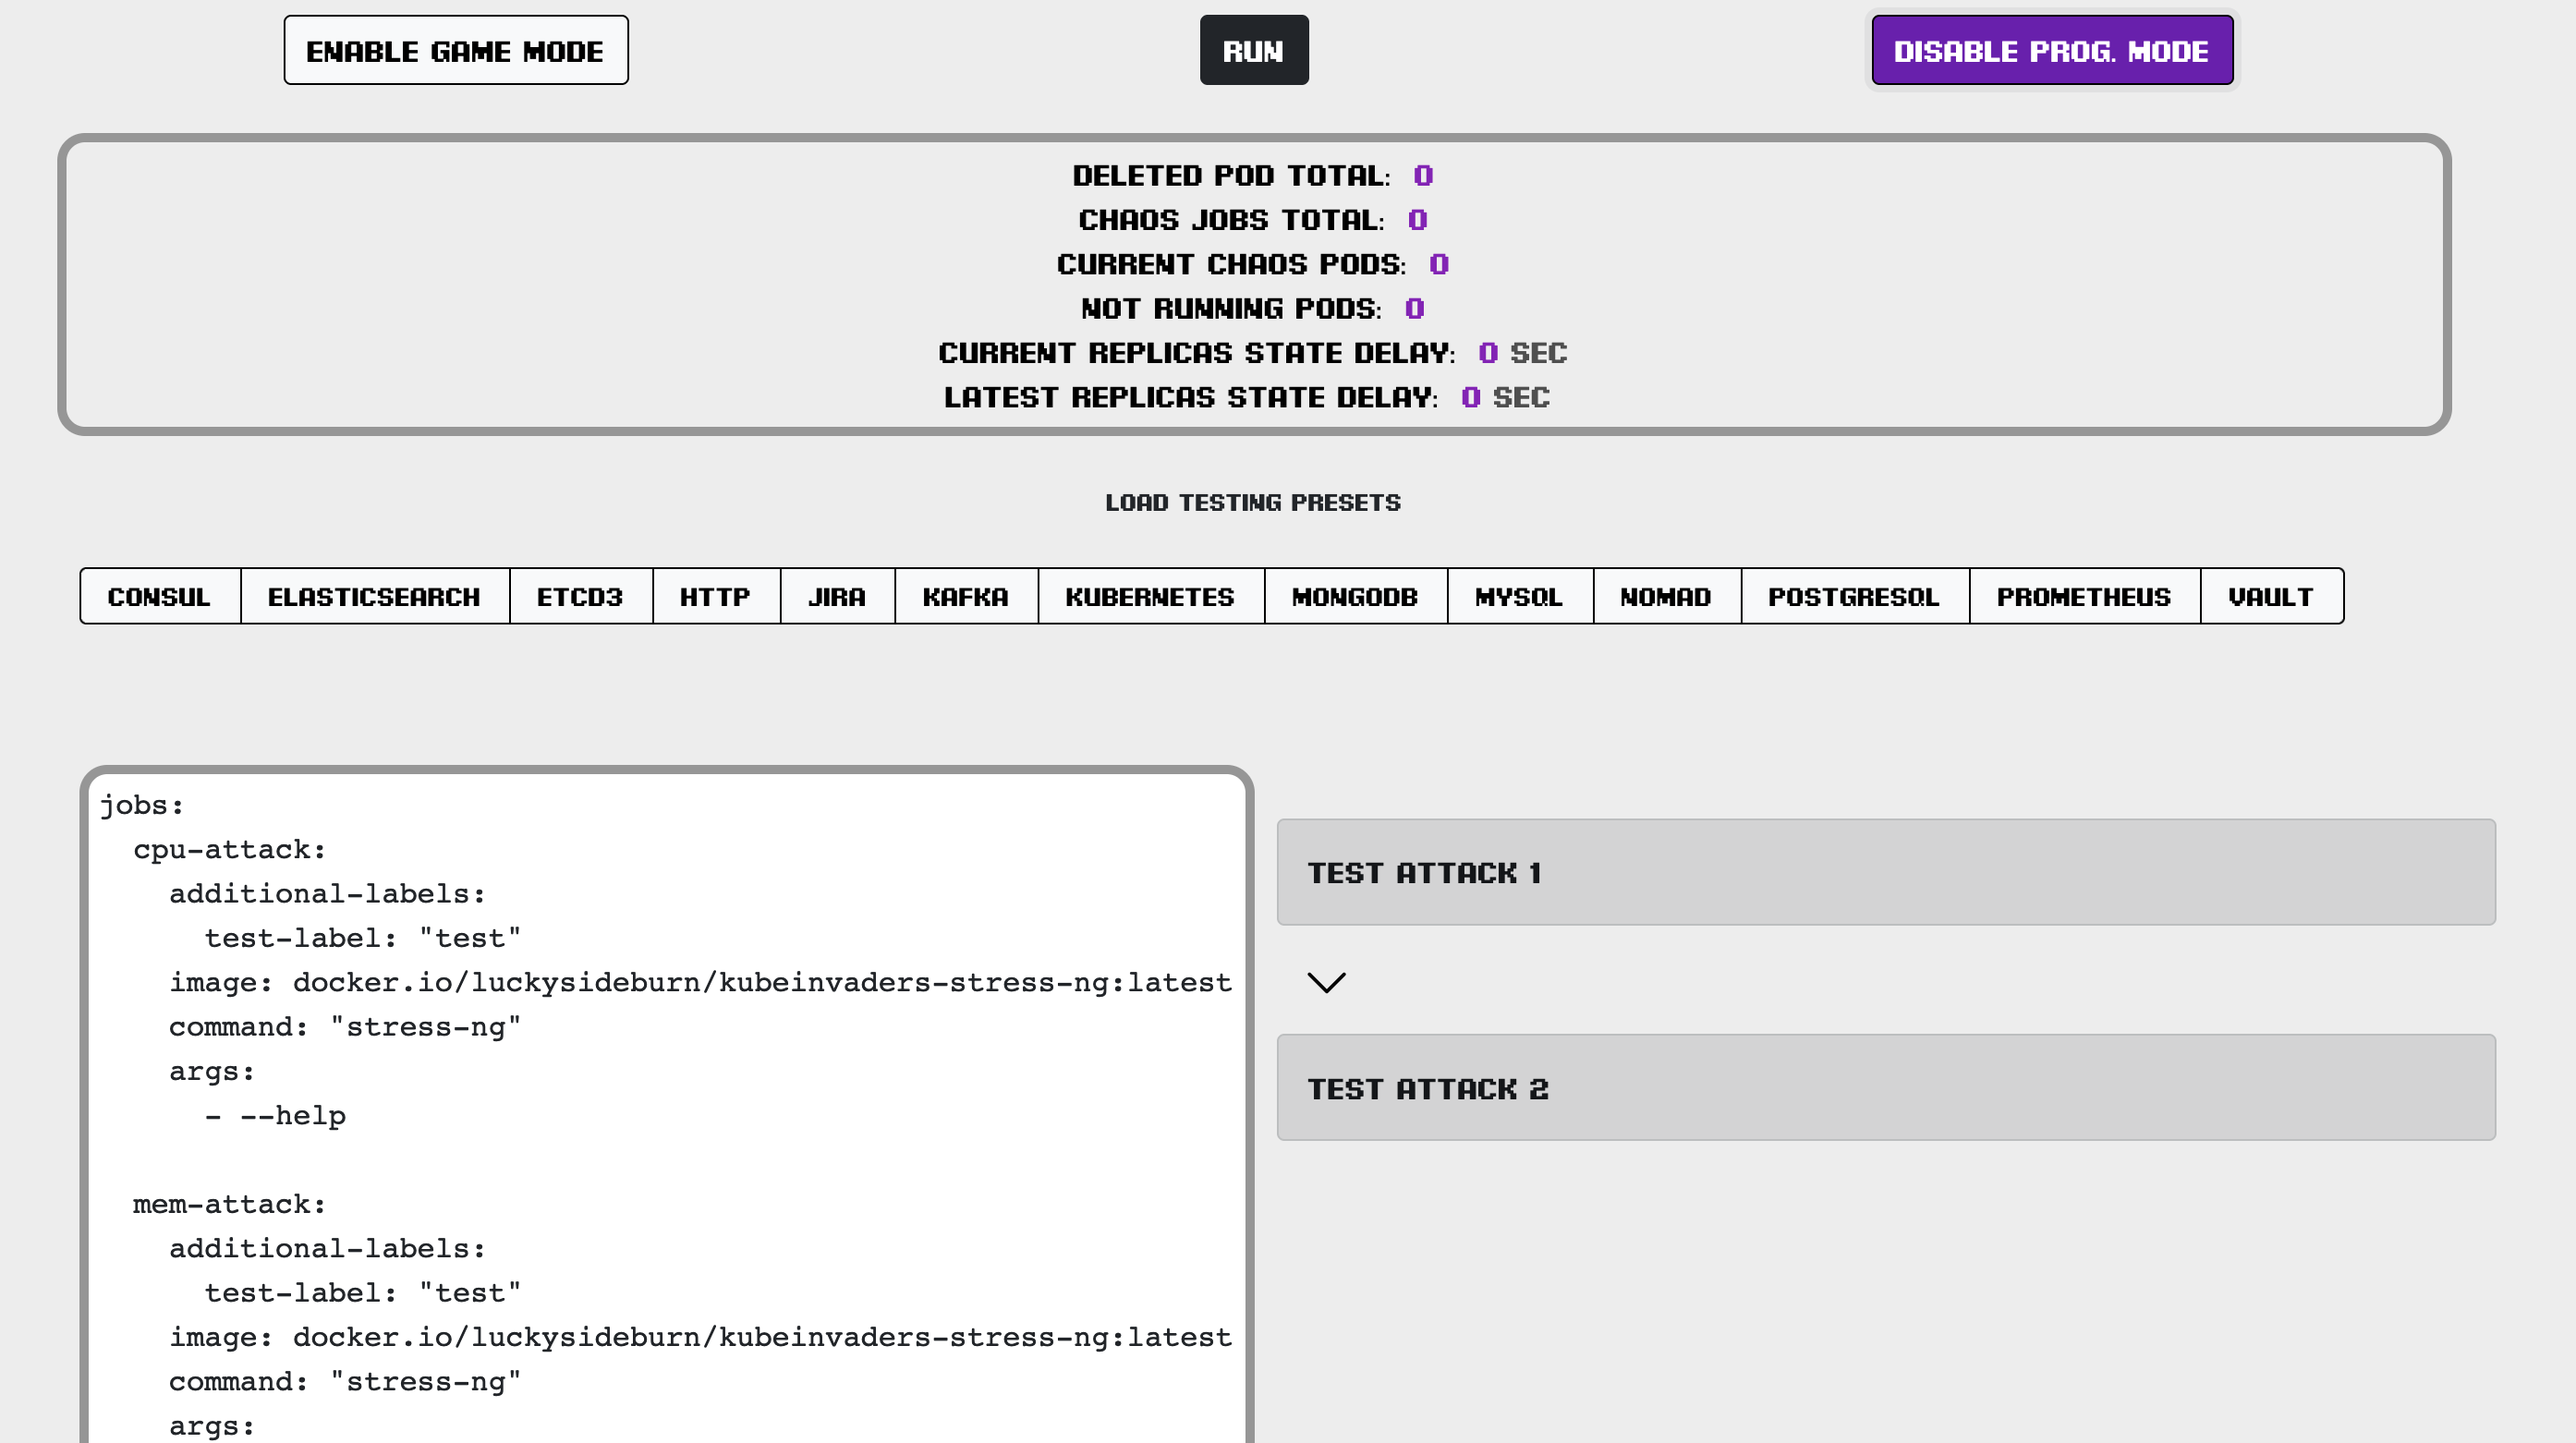
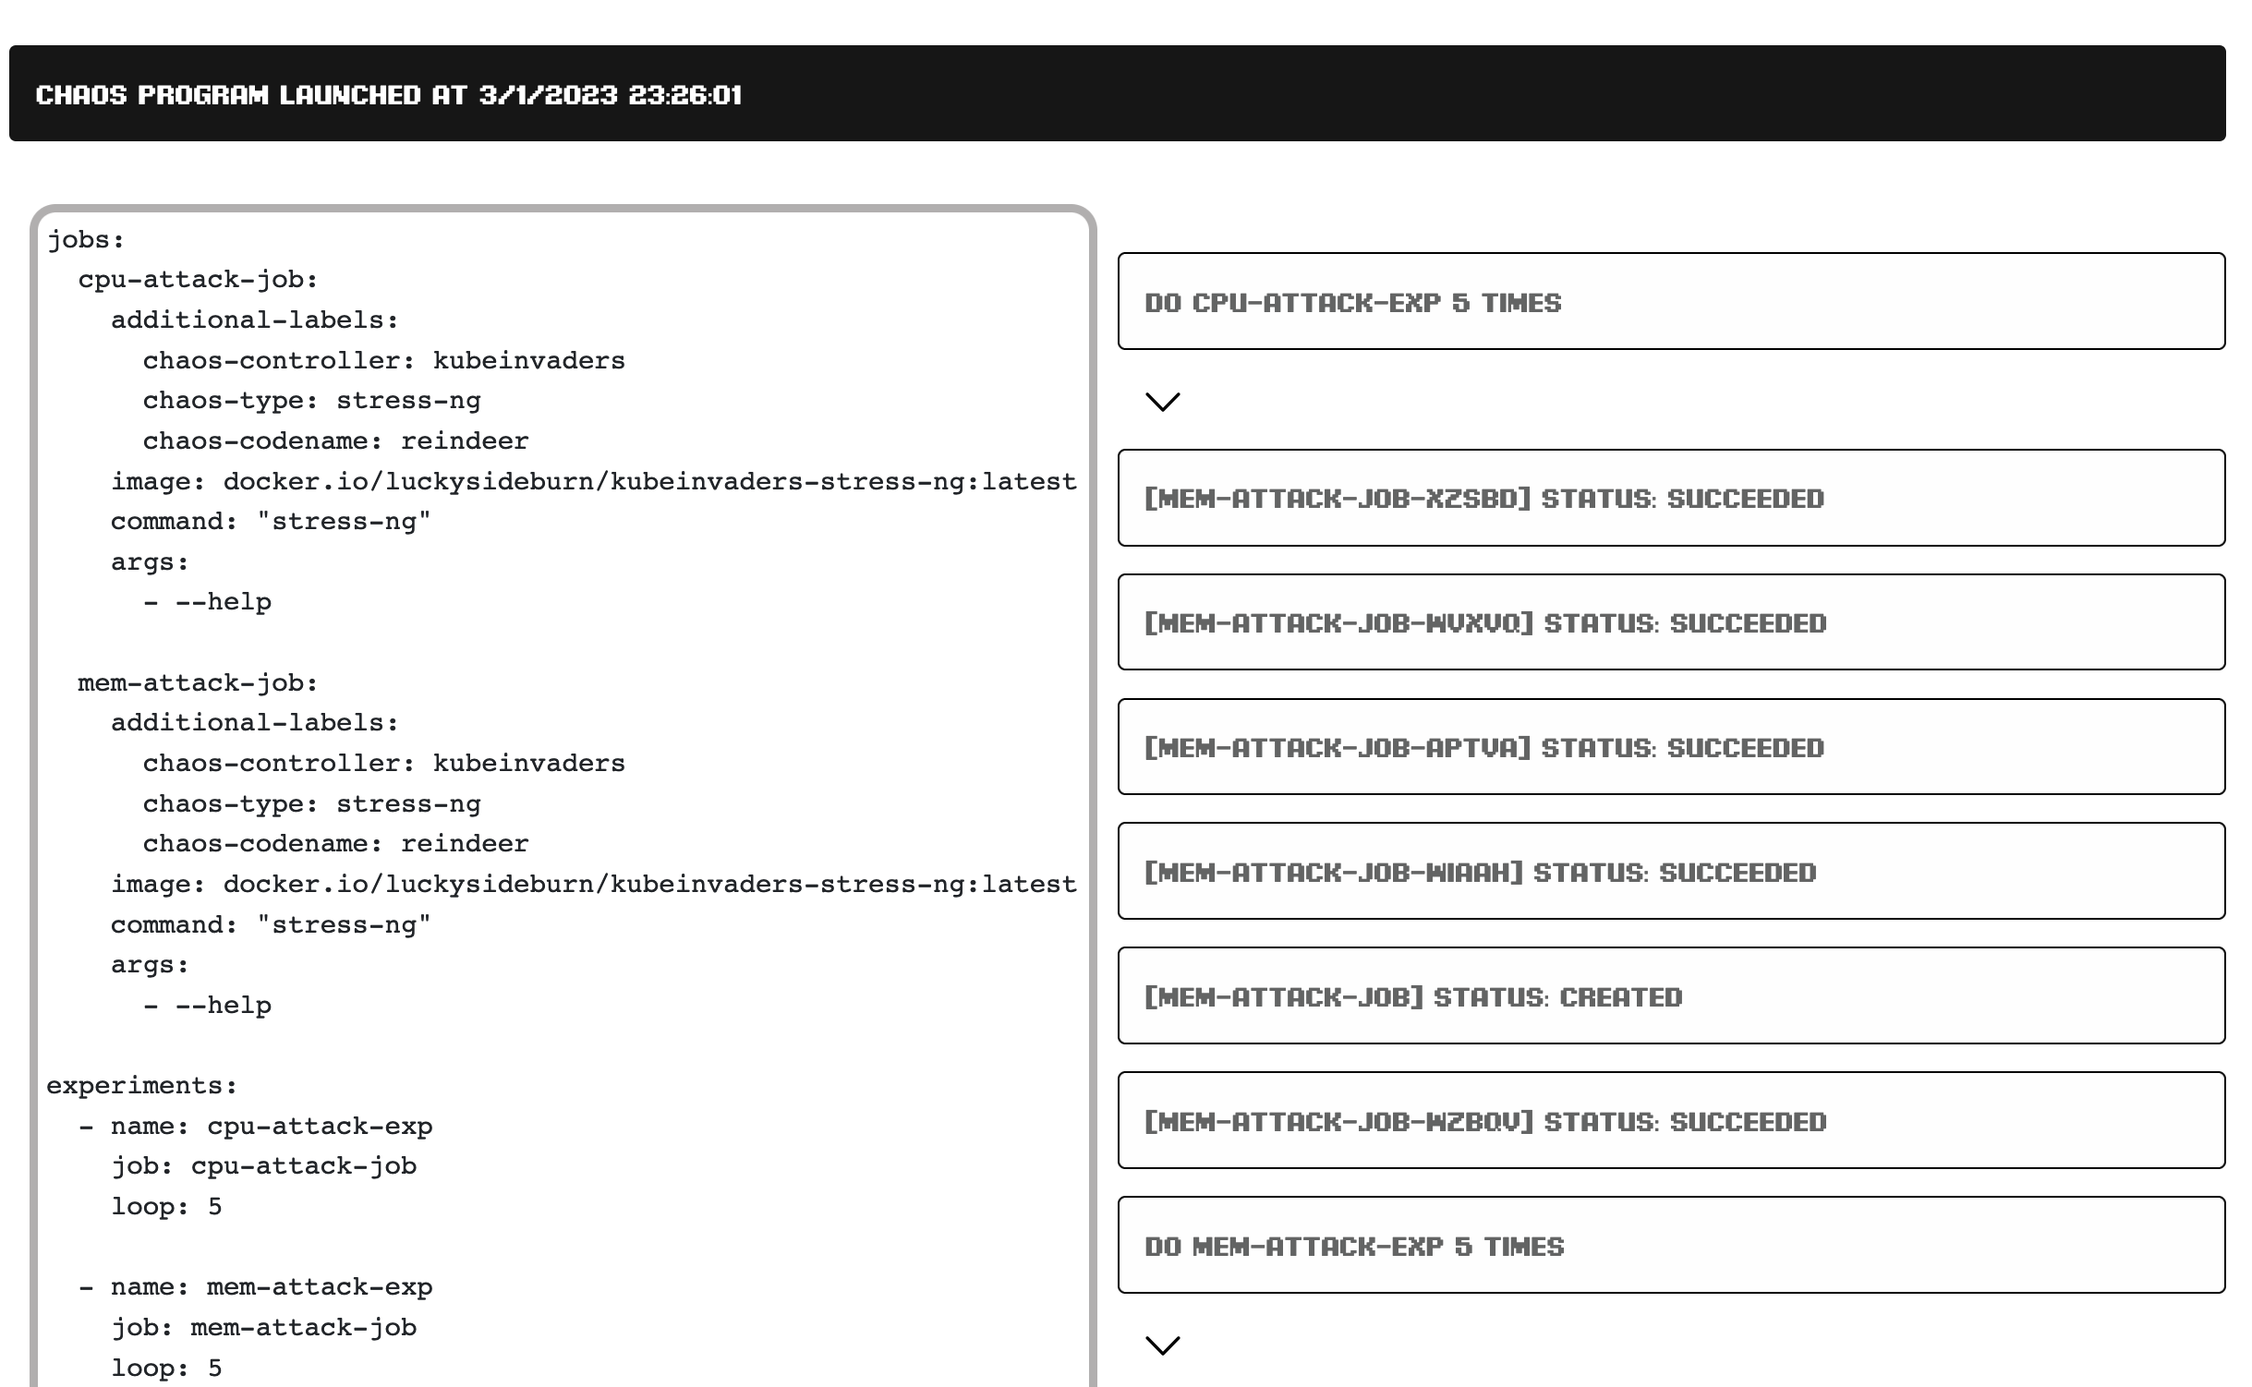
fix

Changed region(s): [[0.0, 0.0, 0.9975, 1.0]]

diff --git a/html5/index.html b/html5/index.html
@@ -10,7 +10,7 @@
 
       .custom-btn-group {
         margin-top: 2%;
-        border: 5px solid #969696;
+        border: 5px solid #b2afaf;
         border-radius: 5px;
         -moz-border-radius: 15px;
         -webkit-border-radius: 15px;
@@ -20,7 +20,7 @@
 
       .logtail-group {
         margin-top: 0%;
-        border: 5px solid #969696;
+        border: 5px solid #b2afaf;
         border-radius: 5px;
         -moz-border-radius: 15px;
         -webkit-border-radius: 15px;
@@ -29,7 +29,7 @@
       }
 
       .chaos-prog-area {
-        border: 5px solid #969696;
+        border: 5px solid #b2afaf;
         border-radius: 5px;
         -moz-border-radius: 15px;
         -webkit-border-radius: 15px;
@@ -42,7 +42,7 @@
       }
 
       .btn-light:hover, .btn-light:focus, .btn-light:active, .btn-light.active, .open .dropdown-toggle.btn-default {
-        background-color: #7304b3;
+        background-color: #06812f;
         color:#FFF;
         border-color: #000000;
       }
@@ -58,21 +58,21 @@
       }
 
       body {
-        background-color: #ededed;
+        background-color: #ffffff;
       }
 
       .modal-content {
-        background-color: #ededed;
+        background-color: #ffffff;
 
       }
 
       .modal-content {
-        background-color: #ededed;
+        background-color: #ffffff;
 
       }
       
       .modal-dialog {
-        background-color: #ededed;
+        background-color: #ffffff;
       }
 
       div {
@@ -293,14 +293,14 @@
       <div class="row" align="center">
         <div style="margin-top: 1%;" class="custom-btn-group">
 
-            <span style="color: #000000;">Deleted Pod Total:&nbsp;&nbsp;<span id="deleted_pods_total" style="color: #8f00bb">0</span></span><br>
-            <span style="color: #000000">Chaos Jobs Total:&nbsp;&nbsp;<span id="chaos_jobs_total" style="color: #8f00bb">0</span></span><br>
+            <span style="color: #000000;">Deleted Pod Total:&nbsp;&nbsp;<span id="deleted_pods_total" style="color: #028320">0</span></span><br>
+            <span style="color: #000000">Chaos Jobs Total:&nbsp;&nbsp;<span id="chaos_jobs_total" style="color: #028320">0</span></span><br>
 
-            <span style="color: #000000">Current Chaos Pods:&nbsp;&nbsp;<span id="current_chaos_job_pod" style="color: #8f00bb">0</span></span><br>
-            <span style="color: #000000">Not Running Pods:&nbsp;&nbsp;<span id="pods_not_running_on" style="color: #8f00bb">0</span></span><br>
+            <span style="color: #000000">Current Chaos Pods:&nbsp;&nbsp;<span id="current_chaos_job_pod" style="color: #028320">0</span></span><br>
+            <span style="color: #000000">Not Running Pods:&nbsp;&nbsp;<span id="pods_not_running_on" style="color: #028320">0</span></span><br>
 
-            <span style="color: #000000">Current Replicas State Delay:&nbsp;&nbsp;</span><span id="fewer_replicas_seconds" style="color: #8f00bb">0</span><font color="#4f4f4f">&nbsp;sec</font></span><br>
-            <span style="color: #000000">Latest Replicas State Delay:&nbsp;&nbsp;<span id="latest_fewer_replicas_seconds" style="color: #8f00bb">0</span><font color="#4f4f4f">&nbsp;sec</font>&nbsp;</span>
+            <span style="color: #000000">Current Replicas State Delay:&nbsp;&nbsp;</span><span id="fewer_replicas_seconds" style="color: #028320">0</span><font color="#4f4f4f">&nbsp;sec</font></span><br>
+            <span style="color: #000000">Latest Replicas State Delay:&nbsp;&nbsp;<span id="latest_fewer_replicas_seconds" style="color: #028320">0</span><font color="#4f4f4f">&nbsp;sec</font>&nbsp;</span>
 
         </div>
         <div class="">
@@ -372,9 +372,9 @@ experiments:
           </div>
           <div class="col" style="margin-top: 4%; overflow-y: scroll;  height:900px;">
             <div id="chaosProgramFlow">
-              <div class="row"><div class="alert alert-dark" role="alert">test attack 1</div></div>
+              <div class="row"><div class="alert alert-light" role="alert" style="border-color: #000000; border-width: 1.5px;">test attack 1</div></div>
               <img src="images/down-arrow.png" width="30" height="30" style="margin-bottom: 2%;">
-              <div class="row"><div class="alert alert-dark" role="alert">test attack 2</div></div>
+              <div class="row"><div class="alert alert-light" role="alert" style="border-color: #000000; border-width: 1.5px;">test attack 2</div></div>
             </div>
           </div>
         </div>

diff --git a/html5/kubeinvaders.js b/html5/kubeinvaders.js
@@ -174,7 +174,7 @@ experiments:
 
 function drawChaosProgramFlow() {
     var chaosProgram = "";
-    chaosProgram = $('#chaosProgramTextArea').text();
+    chaosProgram = $('#chaosProgramTextArea').val();
 
     // var chaosProgramWithCodename = chaosProgram.replace('CODENAME_PLACEHOLDER', codename);
     // console.log(chaosProgramWithCodename);
@@ -200,15 +200,18 @@ function drawChaosProgramFlow() {
                         times = "twice"
                     }
                     else {
-                        times = "times"
+                        times = flow["experiments"][i]["loop"] + " times"
                     }
 
-                    flow_html = flow_html + '<div class="row"><div class="alert alert-light" role="alert">Do ' + flow["experiments"][i]["name"] + ' ' + flow["experiments"][i]["loop"] + ' ' + times + '</div></div>';
+                    flow_html = flow_html + '<div class="row"><div class="alert alert-light" role="alert" style="border-color: #000000; border-width: 1.5px;">Do ' + flow["experiments"][i]["name"] + ' ' + times + '</div></div>';
                     search_job = codename + ":" + flow["experiments"][i]["name"]
+
+                    flow_html = flow_html + '<img src="images/down-arrow.png" width="30" height="30" style="margin-bottom: 2%;">';
+
                     //console.log("Search " + search_job);
                     for (let [key, value] of chaos_jobs_status) {
                         if (key.search(search_job)) {
-                            flow_html = flow_html + '<div class="row"><div class="alert alert-light" role="alert">[' + key.split(":")[2] + '] Status: ' + value + '</div></div>';
+                            flow_html = flow_html + '<div class="row"><div class="alert alert-light" role="alert" style="border-color: #000000; border-width: 1.5px;">[' + key.split(":")[2] + '] Status: ' + value + '</div></div>';
                         }
                     }
                     i++;
